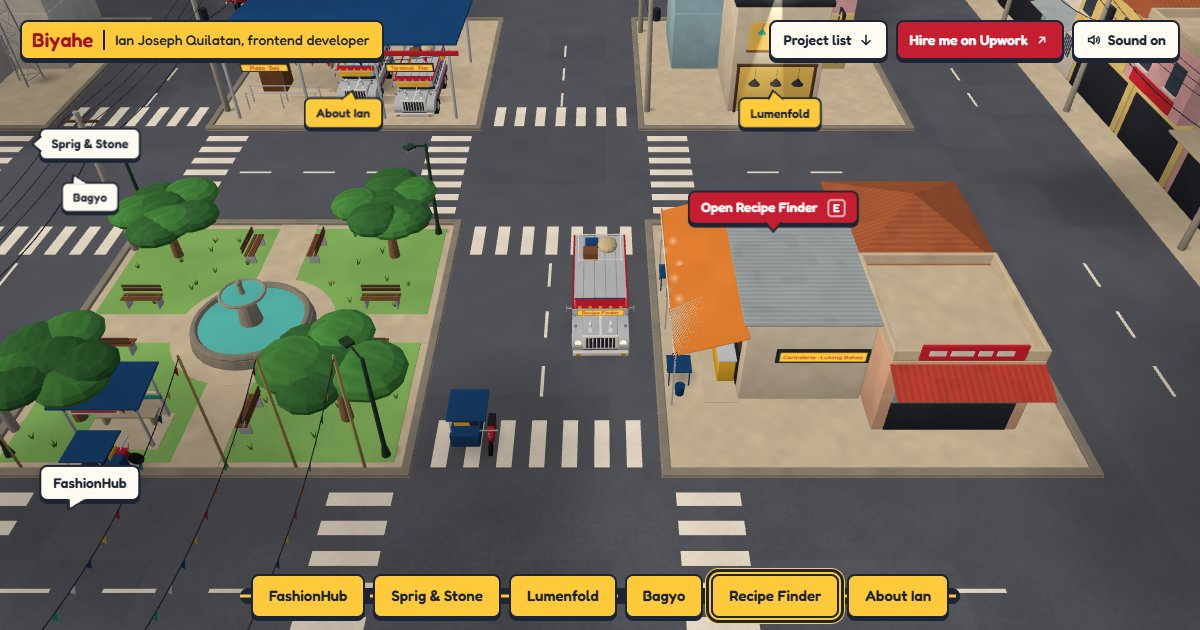
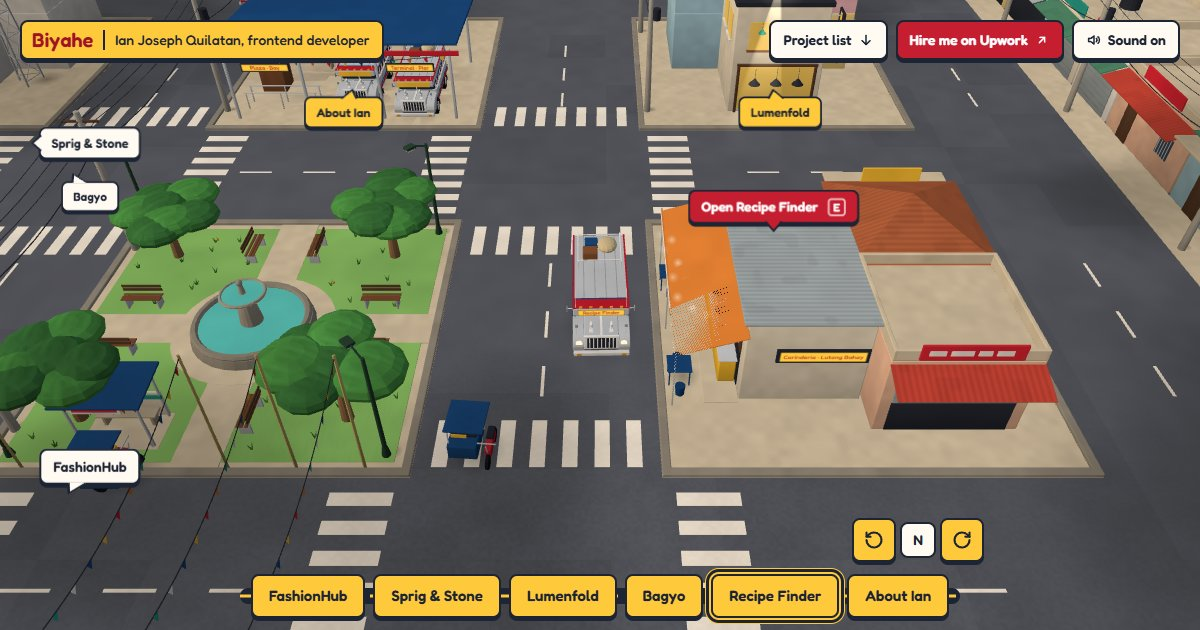
Camera part 2: something to see in every view
- Shophouses: the parts the north-looking camera never saw (north-row shopfronts, back and side windows) come from a
  second random stream, so the existing town is unchanged
- Edge: one row of shophouses facing town, then ten rows of cheap far houses (windows on the nearest three) out to the
  fog; side rows stop at the promenade
- Four two-storey stops get windows on their backs and bare sides
- Off-screen signs that reach the bottom of their stack step up past it instead of onto the sign above
- OG image retaken (shows the turn buttons)
- ~331k triangles (was ~347k), 33-37 draws, 60 fps

diff --git a/src/components/world/Town.tsx b/src/components/world/Town.tsx
@@ -8,7 +8,7 @@ import { BLOCK_HALF, BLOCKS, EDGE, LOTS, OBSTACLES, SHORE_Z, site, STREET_HALF, 
 import { Batched, type Batch, type Vec } from "./Batched";
 import { banderitas, strut } from "./Landmarks";
 import { paint } from "./paint";
-import { shophouse } from "./shophouse";
+import { farHouse, shophouse } from "./shophouse";
 import { Water } from "./Water";
 
 const ASPHALT = "#5d626d";
@@ -45,9 +45,9 @@ const taken = (x0: number, z0: number, x1: number, z1: number) =>
 /**
  * A block: kerb, sidewalk, then shophouses filling its middle. The middle is split into a north and a south row,
  * each cut into two or three plots; a plot a landmark stands on is left empty for it. The middle block is the plaza.
- * Each row fronts its own street, so the north row's shops face away from the camera and only show their roofs and backs.
+ * Each row fronts its own street. `extra` draws what the north-looking camera never saw (shophouse.ts `Detail`).
  */
-function block(b: Batch, cx: number, cz: number, rnd: () => number) {
+function block(b: Batch, cx: number, cz: number, rnd: () => number, extra: () => number) {
   const h = BLOCK_HALF;
   b.flat(() => b.box(SIDEWALK, [2 * h, 0.02, 2 * h], [cx, 0.01, cz]));
   for (const [w, d, x, z] of [
@@ -77,7 +77,7 @@ function block(b: Batch, cx: number, cz: number, rnd: () => number) {
       const storeys = least + Math.floor(rnd() * (most - least + 1));
       // South row: front on the south edge facing +z. North row: front on the north edge, turned round.
       const at: Vec = [(x0 + x1) / 2, 0, row > 0 ? z1 : z0];
-      b.place(at, row > 0 ? 0 : Math.PI, () => shophouse(b, x1 - x0, inner, storeys, rnd, { front: row > 0 }));
+      b.place(at, row > 0 ? 0 : Math.PI, () => shophouse(b, x1 - x0, inner, storeys, rnd, { front: row > 0, extra }));
     }
   }
 }
@@ -235,48 +235,53 @@ function promenade(b: Batch) {
 }
 
 /**
- * The rest of town, beyond the outer streets: rows of shophouses along the west, south and east edges, three deep with
- * an alley between, so the town carries on past where you can drive instead of stopping at a cliff (the camera sees
- * ~25 m past the south street and further at the top corners). Lower detail; not in the colliders: the square's edge
- * stops the jeepney first. Only the first row's fronts face town; the rows behind and the south rows (which face
- * away from the camera) show only roofs and backs. The south rows run on past the corners, the side rows stop short.
+ * The rest of town, beyond the outer streets: a row of shophouses along the west, south and east edges, then rows of
+ * plain far houses with alleys between, out to where the fog is full (~130 m), so the town carries on whichever way
+ * the view turns. Lower detail; not in the colliders: the square's edge stops the jeepney first. The first row faces
+ * town, so its shopfronts are seen from across the outer street. The south rows run on past the corners, the side
+ * rows stop short of them and of the promenade.
  */
-function edgeRow(b: Batch, rnd: () => number) {
+function edgeRow(b: Batch, rnd: () => number, extra: () => number) {
   const from = EDGE + SIDEWALK_WIDTH;
   const depth = 7;
   const alley = 2;
+  const rings = 10;
+  const far = from + rings * (depth + alley); // the south rows run this far east and west, past the corners
   const lay = (place: (out: number, along: number) => Vec, yaw: number, side: boolean, start: number, end: number) => {
-    for (let ring = 0; ring < 3; ring++) {
+    for (let ring = 0; ring < rings; ring++) {
       const out = from + ring * (depth + alley);
       for (let along = start; along < end; ) {
-        const len = 4 + rnd() * 3.5;
-        const storeys = 1 + Math.floor(rnd() * (side ? 2 : 1));
-        const front = side && ring === 0;
-        b.place(place(out, along + len / 2), yaw, () => shophouse(b, len, depth, storeys, rnd, { front, low: true }));
+        const near = ring === 0 && Math.abs(along) < from + depth; // the row facing the outer street
+        const len = near ? 4 + rnd() * 3.5 : 5 + rnd() * 5;
+        const storeys = 1 + Math.floor(rnd() * (side || !near ? 2 : 1)); // the south street's own row stays low
+        b.place(place(out, along + len / 2), yaw, () =>
+          near ? shophouse(b, len, depth, storeys, rnd, { front: side, low: true, extra }) : farHouse(b, len, depth, storeys, rnd, ring < 4),
+        );
         along += len;
       }
     }
   };
   b.flat(() => {
     for (const [w, d, x, z] of [
-      [SIDEWALK_WIDTH, 100, -EDGE - 1, -12],
-      [SIDEWALK_WIDTH, 100, EDGE + 1, -12],
-      [150, SIDEWALK_WIDTH, 0, EDGE + 1],
+      [SIDEWALK_WIDTH, 2 * EDGE, -EDGE - 1, 0],
+      [SIDEWALK_WIDTH, 2 * EDGE, EDGE + 1, 0],
+      [2 * (EDGE + SIDEWALK_WIDTH), SIDEWALK_WIDTH, 0, EDGE + 1],
     ]) b.box(SIDEWALK, [w, 0.02, d], [x, 0.01, z]);
   });
-  lay((out, a) => [-out, 0, a], Math.PI / 2, true, -60, EDGE); // west, facing east into town
-  lay((out, a) => [out, 0, a], -Math.PI / 2, true, -60, EDGE); // east, facing west
-  lay((out, a) => [a, 0, out], Math.PI, false, -75, 75); // south, facing north (away from the camera), kept low
+  lay((out, a) => [-out, 0, a], Math.PI / 2, true, -EDGE, EDGE); // west, facing east into town (the promenade runs on north of it)
+  lay((out, a) => [out, 0, a], -Math.PI / 2, true, -EDGE, EDGE); // east, facing west
+  lay((out, a) => [a, 0, out], Math.PI, false, -far, far); // south, facing north into town, kept low
 }
 
 function buildTown(b: Batch) {
   const rnd = seeded(23);
-  for (const z of BLOCKS) for (const x of BLOCKS) block(b, x, z, rnd);
+  const extra = seeded(57); // see shophouse.ts `Detail.extra`
+  for (const z of BLOCKS) for (const x of BLOCKS) block(b, x, z, rnd, extra);
   roadPaint(b);
   poles(b);
   fiesta(b);
   promenade(b);
-  edgeRow(b, rnd);
+  edgeRow(b, rnd, extra);
 }
 
 /** The ground (streets), the sea, and every building that isn't a stop. A click or tap on the ground drives there. */

diff --git a/src/components/world/shophouse.ts b/src/components/world/shophouse.ts
@@ -1,4 +1,4 @@
-import { BoxGeometry, ConeGeometry } from "three";
+import { BoxGeometry, ConeGeometry, CylinderGeometry } from "three";
 import type { Batch, Vec } from "./Batched";
 
 /**
@@ -29,10 +29,16 @@ const GROUND = 3.2; // the shop floor, taller than the floors above
 const STOREY = 2.8;
 
 export type Detail = {
-  /** The front faces the camera's side (south, east or west), so the shop and sign are worth drawing. */
+  /** The front faced the camera's side when it only looked north (south, east or west): shop and sign drawn from `rnd`. */
   front: boolean;
   /** The rest of town past the edge: windows, roof and sign only, no aircons, balconies or pots. */
   low?: boolean;
+  /**
+   * Since the view turns, every side gets seen: given this, the parts the north-looking camera never saw are added too
+   * (the shopfront of a building facing away, windows on the back and on the sides). They draw from this second random
+   * stream, so adding them left every building that was already there exactly as it was.
+   */
+  extra?: () => number;
 };
 
 /** Height of a shophouse with this many storeys, roof parapet not included. */
@@ -69,7 +75,56 @@ export function shophouse(b: Batch, width: number, depth: number, storeys: numbe
       for (let k = 1; k < storeys; k++) windows(plain, w, GROUND + (k - 1) * STOREY, 0, rnd);
     });
   }
+  const more = detail.extra;
+  if (more) {
+    if (!detail.front) {
+      shopfront(b, plain, w, more, detail, jut);
+      for (let k = 1; k < storeys; k++) upperFloor(b, plain, w, GROUND + (k - 1) * STOREY, jut, more, detail, k === storeys - 1);
+    } else if (storeys > 1) {
+      b.place([0, 0, -depth], Math.PI, () => {
+        for (let k = 1; k < storeys; k++) windows(plain, w, GROUND + (k - 1) * STOREY, 0, more);
+      });
+    }
+    // Windows down both sides of the upper floors: a side shows wherever its neighbour is lower or missing (and is
+    // hidden behind a taller one, which costs a few triangles but keeps the plots independent of each other).
+    if (!detail.low) {
+      for (const side of [-1, 1]) {
+        b.place([(side * w) / 2, 0, (jut - depth) / 2], (side * Math.PI) / 2, () => {
+          for (let k = 1; k < storeys; k++) windows(plain, depth + jut - 1, GROUND + (k - 1) * STOREY, 0, more);
+        });
+      }
+    }
+  }
   roof(b, plain, w, depth, height, rnd, detail, jut);
+}
+
+/**
+ * The town past the edge rows, out to where the fog is full: a plain block with a hipped roof or a flat one with a
+ * water tank, no shop (at that distance, and that hazy, they're colour and shape). About 30 triangles; the nearer rows
+ * add dark windows on their two long sides (`windows`), ~12 triangles each.
+ * In the current frame like `shophouse`: front middle at the origin, running back to -depth.
+ */
+export function farHouse(b: Batch, width: number, depth: number, storeys: number, rnd: () => number, windows = false) {
+  const pick = <T,>(list: T[]) => list[Math.floor(rnd() * list.length)];
+  const w = width - 0.15;
+  const height = heightOf(storeys);
+  b.add(pick(WALLS), new BoxGeometry(w, height, depth), [0, height / 2, -depth / 2]);
+  if (windows) {
+    const n = Math.max(1, Math.floor(w / 2));
+    for (let k = 0; k < storeys; k++) {
+      for (let i = 0; i < n; i++) {
+        const x = -w / 2 + (w * (i + 0.5)) / n;
+        for (const z of [0.01, -depth - 0.01]) b.add(GLASS, new BoxGeometry(0.9, 1.1, 0.04), [x, (k ? GROUND + (k - 1) * STOREY : 0) + 1.5, z]);
+      }
+    }
+  }
+  if (rnd() < 0.5) {
+    const rise = 1 + rnd() * 0.4;
+    const g = new ConeGeometry(Math.SQRT1_2, rise, 4).rotateY(Math.PI / 4).scale(w + 0.4, 1, depth + 0.4);
+    b.add(pick(ROOFS), g, [0, height + rise / 2, -depth / 2]);
+  } else {
+    b.add(pick(TANKS), new CylinderGeometry(0.48, 0.5, 1.1, 6), [(rnd() - 0.5) * (w - 1.4), height + 1.15, -depth / 2]);
+  }
 }
 
 type Plain = (color: string, size: Vec, at: Vec, rot?: Vec) => void;

diff --git a/src/components/world/Landmarks.tsx b/src/components/world/Landmarks.tsx
@@ -110,6 +110,25 @@ function tank(b: Batch, at: Vec) {
 }
 
 /**
+ * Windows round a two-storey landmark's upper floor, on the back and the sides: the view turns, so they're seen now.
+ * Panes in the colour of its front windows, white sills. `sides`: the side walls (-1 left, 1 right) not already dressed.
+ */
+function rearWindows(b: Batch, [W, D, cx]: Vec, y: number, pane: string, sides = [-1, 1]) {
+  const n = Math.max(1, Math.floor(W / 2.2));
+  for (let i = 0; i < n; i++) {
+    const x = cx - W / 2 + (W * (i + 0.5)) / n;
+    plain(b, pane, [1.1, 1.3, 0.05], [x, y, FRONT - D - 0.02]);
+    plain(b, WHITE, [1.25, 0.08, 0.14], [x, y - 0.7, FRONT - D - 0.06]);
+  }
+  for (const side of sides) {
+    for (const z of [FRONT - D / 3, FRONT - (2 * D) / 3]) {
+      plain(b, pane, [0.05, 1.3, 1.1], [cx + side * (W / 2 + 0.02), y, z]);
+      plain(b, WHITE, [0.14, 0.08, 1.25], [cx + side * (W / 2 + 0.06), y - 0.7, z]);
+    }
+  }
+}
+
+/**
  * Each landmark is drawn in its own frame (world.ts `site()`): the origin is just behind its kerb, +z faces its street,
  * -z runs into the block. Footprints and lots match FOOTPRINTS in world.ts. Signboards with words are separate meshes
  * (SIGNS below), and so are the moving parts (Lumenfold's lamp, Bagyo's cups and radar, the carinderia's steam).
@@ -150,6 +169,7 @@ const LANDMARK_MODELS: Record<string, (b: Batch) => void> = {
       b.box(WOOD, [1.6, 0.1, 0.16], [x, 4.32, FRONT + 0.08]);
     }
     tank(b, [2.3, H + 0.25, FRONT - 3.6]);
+    rearWindows(b, [W, D, 0], 5.0, CAPIZ);
     // The rack on the sidewalk: its clothes hang from the rail and swing (sway measured from the rail).
     const [rx, rz] = [3.0, -0.25];
     for (const x of [rx - 0.65, rx + 0.65]) plain(b, STEEL, [0.04, 1.5, 0.04], [x, 0.75, rz]);
@@ -207,6 +227,7 @@ const LANDMARK_MODELS: Record<string, (b: Batch) => void> = {
       b.cyl(TERRACOTTA, [0.3, 0.22, 0.45], [x, 0.23, -0.2]);
       b.cone(LEAF_DARK, 0.32, 1.2, [x, 1.0, -0.2]);
     }
+    rearWindows(b, [W, D, 0], floor + 1.0, GLASS, [1]); // the other side has the trellis
     b.box(GREEN, [0.08, 0.78, 4.2], [-W / 2 - 0.04, 5.15, FRONT - 2.5]); // the side sign's frame (SIGNS), above the trellis
     // The bamboo trellis on the side wall facing the camera (-x), vines climbing it.
     const sx = -W / 2 - 0.12;
@@ -249,6 +270,7 @@ const LANDMARK_MODELS: Record<string, (b: Batch) => void> = {
     b.box(DARK, [0.1, 2.5, 0.95], [W / 2 + 0.55, 4.1, FRONT - 0.1]); // the corner sign's back (its words: SIGNS)
     for (const y of [3.1, 5.1]) plain(b, STEEL, [0.6, 0.05, 0.05], [W / 2 + 0.25, y, FRONT - 0.1]);
     b.box(DARK, [1.4, 0.9, 1.0], [-1.2, H + 0.55, FRONT - 4.2]); // roof stair hut
+    rearWindows(b, [W, D, 0], 4.1, GLOW); // lit all round
   },
 
   // Bagyo: the PAGASA weather office. White, a blue band, a radar dome on the roof, the lattice mast beside it with its
@@ -268,6 +290,7 @@ const LANDMARK_MODELS: Record<string, (b: Batch) => void> = {
       plain(b, GLASS, [1.0, 1.1, 0.05], [cx + x, 4.75, FRONT + 0.02]);
       b.box(WHITE, [1.15, 0.08, 0.14], [cx + x, 4.15, FRONT + 0.08]);
     }
+    rearWindows(b, [W, D, cx], 4.75, GLASS);
     b.box(DARK, [2.75, 0.52, 0.06], [cx + 1.6, 1.75, FRONT + 0.03]); // the signal board's frame
     b.box(DARK, [2.5, 0.48, 0.06], [cx - 0.6, 2.72, FRONT + 0.03]); // the name board's frame
     // Notice board on legs on the sidewalk.

diff --git a/src/components/world/StopSigns.tsx b/src/components/world/StopSigns.tsx
@@ -50,15 +50,20 @@ function placer(box: RefObject<HTMLDivElement | null>, i: number) {
       const w = plate.offsetWidth + 8; // the plate, a little air round it, and its tail below
       const h = plate.offsetHeight + 16;
       if (edge) {
-        // Pinned to the left or right edge it steps down (or up, near the bottom); on the top or bottom edge, sideways.
+        // Pinned to the left or right edge it steps down, and once the stack reaches the bottom, up past the whole stack
+        // instead (one step up would land on the sign above); on the top or bottom edge, sideways.
         const upright = cx !== x;
-        for (let pass = 0; pass < 3; pass++) {
+        let down = true;
+        for (let pass = 0; pass < spots.length; pass++) {
           for (let j = 0; j < spots.length; j++) {
             const o = spots[j];
             if (j === i || (o.edge && j > i) || Math.abs(o.x - cx) >= (w + o.w) / 2 || Math.abs(o.y - cy) >= (h + o.h) / 2) continue;
             if (upright) {
-              cy = o.y + (h + o.h) / 2;
-              if (cy > bottom) cy = o.y - (h + o.h) / 2;
+              if (down) cy = o.y + (h + o.h) / 2;
+              if (!down || cy > bottom) {
+                down = false;
+                cy = o.y - (h + o.h) / 2;
+              }
             } else {
               cx = o.x + (cx >= o.x ? 1 : -1) * ((w + o.w) / 2);
               if (cx > size.width - side || cx < side) cx = o.x - (cx - o.x);
